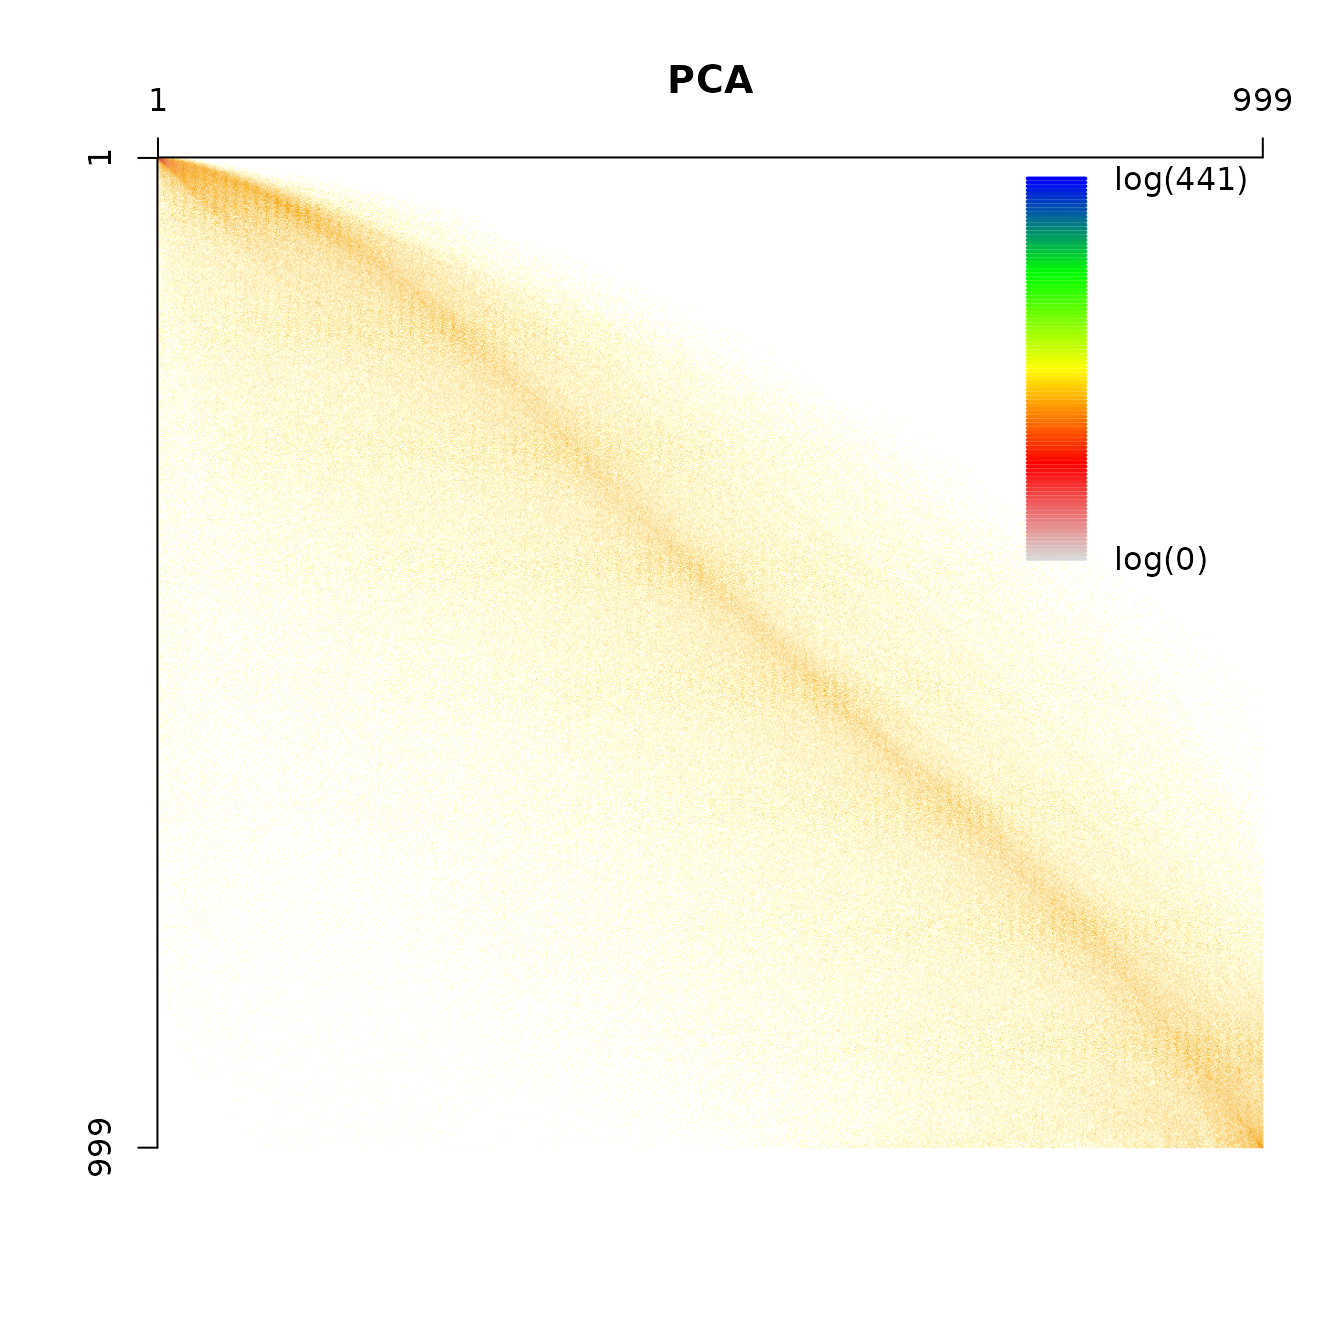
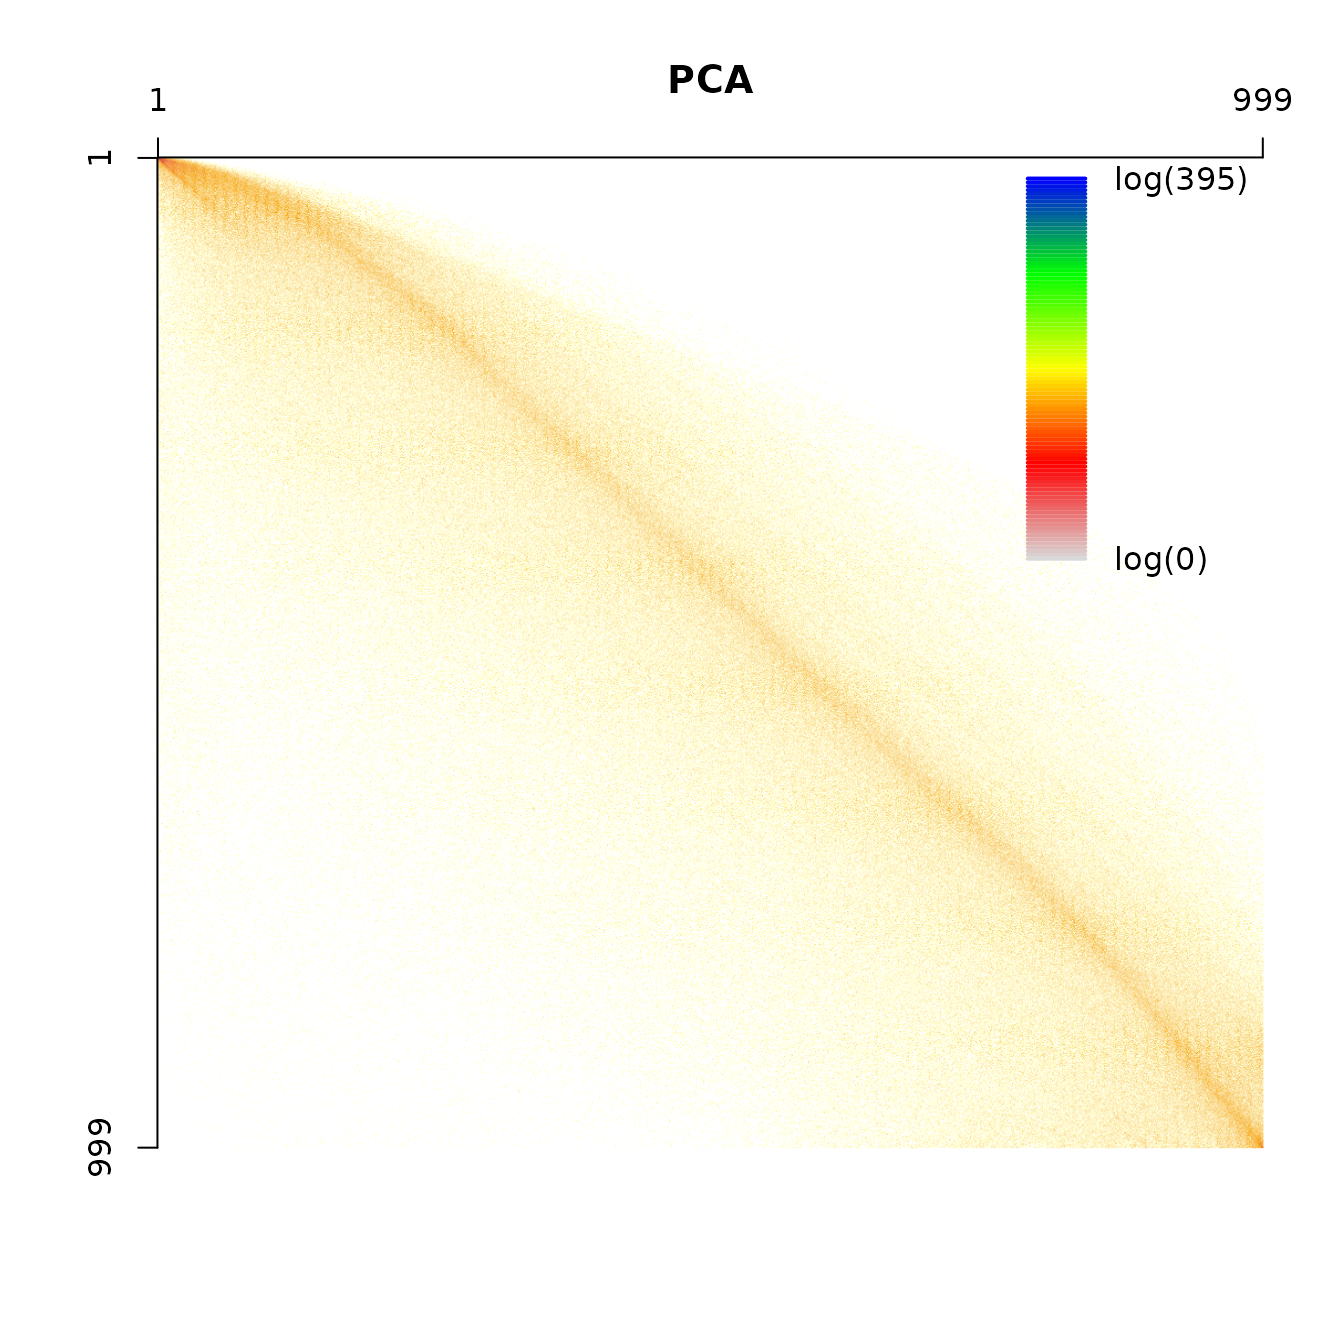
Deploying to gh-pages from @ gdkrmr/coRanking@e55a50a8179ee46cb448c6a3439f23021a309231 🚀

Changed region(s): [[0.125, 0.125, 0.9375, 0.875], [0.875, 0.125, 0.9375, 0.1562]]

diff --git a/articles/coranking.html b/articles/coranking.html
@@ -163,16 +163,16 @@
 <em>t-SNE</em>:
 <ul>
 <li><span class="math inline">\(K_\text{max} = 4\)</span></li>
-<li><span class="math inline">\(Q_\text{local} = 0.8520833\)</span></li>
-<li><span class="math inline">\(Q_\text{global} = 0.8675612\)</span></li>
+<li><span class="math inline">\(Q_\text{local} = 0.8451875\)</span></li>
+<li><span class="math inline">\(Q_\text{global} = 0.8715396\)</span></li>
 </ul>
 </li>
 <li>
 <em>PCA</em>:
 <ul>
-<li><span class="math inline">\(K_\text{max} = 71\)</span></li>
-<li><span class="math inline">\(Q_\text{local} = 0.5366338\)</span></li>
-<li><span class="math inline">\(Q_\text{global} = 0.8383416\)</span></li>
+<li><span class="math inline">\(K_\text{max} = 94\)</span></li>
+<li><span class="math inline">\(Q_\text{local} = 0.5527472\)</span></li>
+<li><span class="math inline">\(Q_\text{global} = 0.8468801\)</span></li>
 </ul>
 </li>
 </ul>
